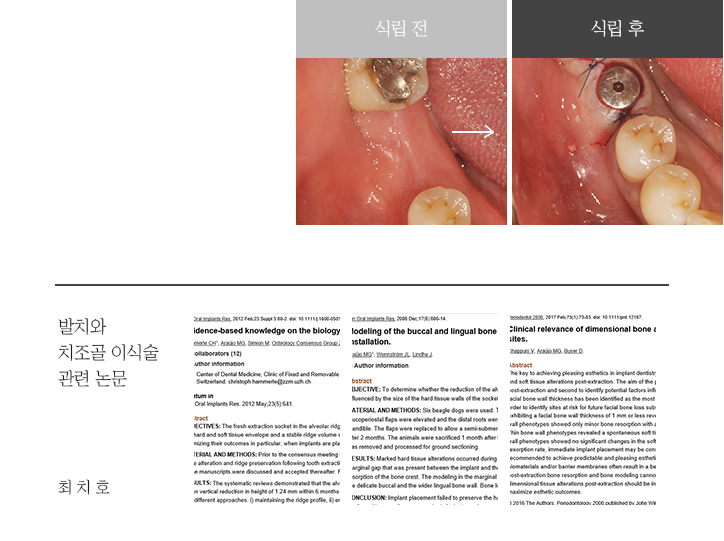
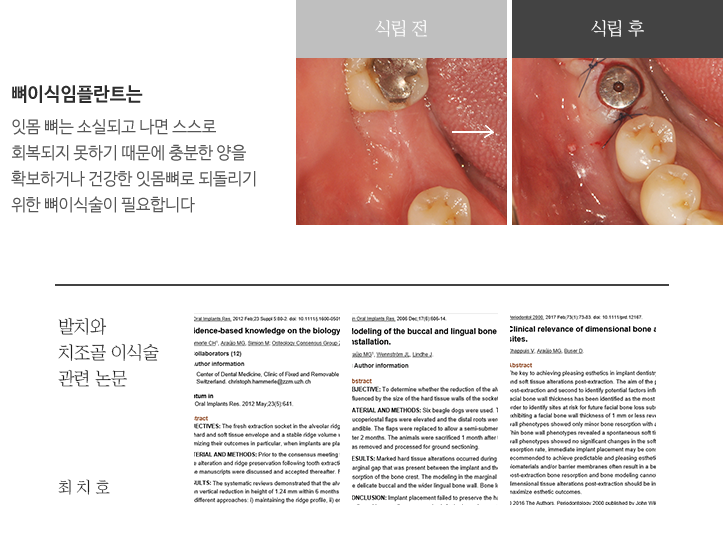
2020.02.18
메인슬라이드 2번 헤드타이틀
메인슬라이드 btn 삽입
 우측 고정위젯 top-bar 바로 아래
sect1 뼈이식임플란트 부분, 이미지 수정

Changed region(s): [[0.0, 0.1479, 0.3646, 0.414]]

diff --git a/css/style.css b/css/style.css
@@ -24,10 +24,6 @@
 .topbanr02 strong {color: #56aebf;}
 
 
-/* quickN */
-#quickN {position: fixed; right: 0; top: 30%; z-index: 900;}
-
-
 /* header */
 #header {position: absolute; top: 120px; left: 0; width: 100%; height: 100px; background: rgba(0,0,0,0.4); z-index: 1000;}
 #header.fixed {position: fixed; top: 0;}
@@ -63,11 +59,17 @@
 .tit_slide .tit01 .txt_area p strong {color: #a2faff;}
 .tit_slide .tit01 .txt_area img {margin: 80px 0 0 300px;}
 
-.tit_slide .tit02 .txt_area {margin-top: 360px;}
+.tit_slide .tit02 .txt_area {margin-top: 360px; font-size: 46px;}
 .tit_slide .tit02 img {margin-top: 40px;}
 
 .tit_slide .swiper-button-prev {left: 60px; background: url(../images/slide_btn.png) no-repeat left top; width: 120px; height: 66px;}
 .tit_slide .swiper-button-next {right: 60px; background: url(../images/slide_btn.png) no-repeat right top; width: 120px; height: 66px;}
+
+.tit_slide.swiper-container-horizontal>.swiper-pagination-bullets {bottom: 50px;}
+.tit_slide .swiper-pagination-bullet {width: 10px; height: 10px; border-radius: 0;}
+.tit_slide .swiper-pagination-bullet-active {background: #93d6e2;}
+
+
 
 
 /* implant */
@@ -87,8 +89,6 @@
 .imple_slide .txt_box p strong {font-weight: 400;}
 .imple_slide .imple01 .txt_box p {margin-top: 86px;}
 .imple_slide .txt_box img {margin-top: 40px;}
-
-.swiper-container-horizontal.imple_slide > .swiper-pagination-bullets {bottom: auto; top: 0;}
 
 .imple_slide.swiper-container {overflow: visible;}
 .imple_slide.swiper-container-horizontal>.swiper-pagination-bullets {top: -20px; left: 50%; transform: translate(-50%,0);}

diff --git a/index.html b/index.html
@@ -57,11 +57,6 @@
     </div>
     <!-- //topbanr -->
 
-    <a id="quickN" href="https://booking.naver.com/booking/13/bizes/319393?area=ple" target="_blank">
-        <img src="images/quick_naver.png" alt="네이버 예약하기/대표원장 직접상담">
-    </a>
-    <!--  -->
-
     <header id="header">
         <div class="h_area clear">
             <h1 class="logo f_l"><a href="#"><img src="images/h_logo.png" alt="서울호치과"></a></h1>
@@ -77,6 +72,9 @@
                 </ul>
             </nav>
         </div>
+        <a class="quickN f_r" href="https://booking.naver.com/booking/13/bizes/319393?area=ple" target="_blank">
+            <img src="images/quick_naver.png" alt="네이버 예약하기/대표원장 직접상담">
+        </a>
     </header>
     <!-- //header -->
 
@@ -105,6 +103,8 @@
                         </div>
                     </div>
                 </div>
+                <!-- Add Pagination -->
+                <div class="swiper-pagination"></div>
                 <!-- Add Arrows -->
                 <div class="swiper-button-next"></div>
                 <div class="swiper-button-prev"></div>

diff --git a/js/common.js b/js/common.js
@@ -47,6 +47,10 @@ $(document).ready(function(){
             nextEl: '.swiper-button-next',
             prevEl: '.swiper-button-prev',
         },
+        pagination: {
+            el: '.swiper-pagination',
+            clickable: true,
+        },
         speed: 400,
         autoplay: {
             delay: 4000,
